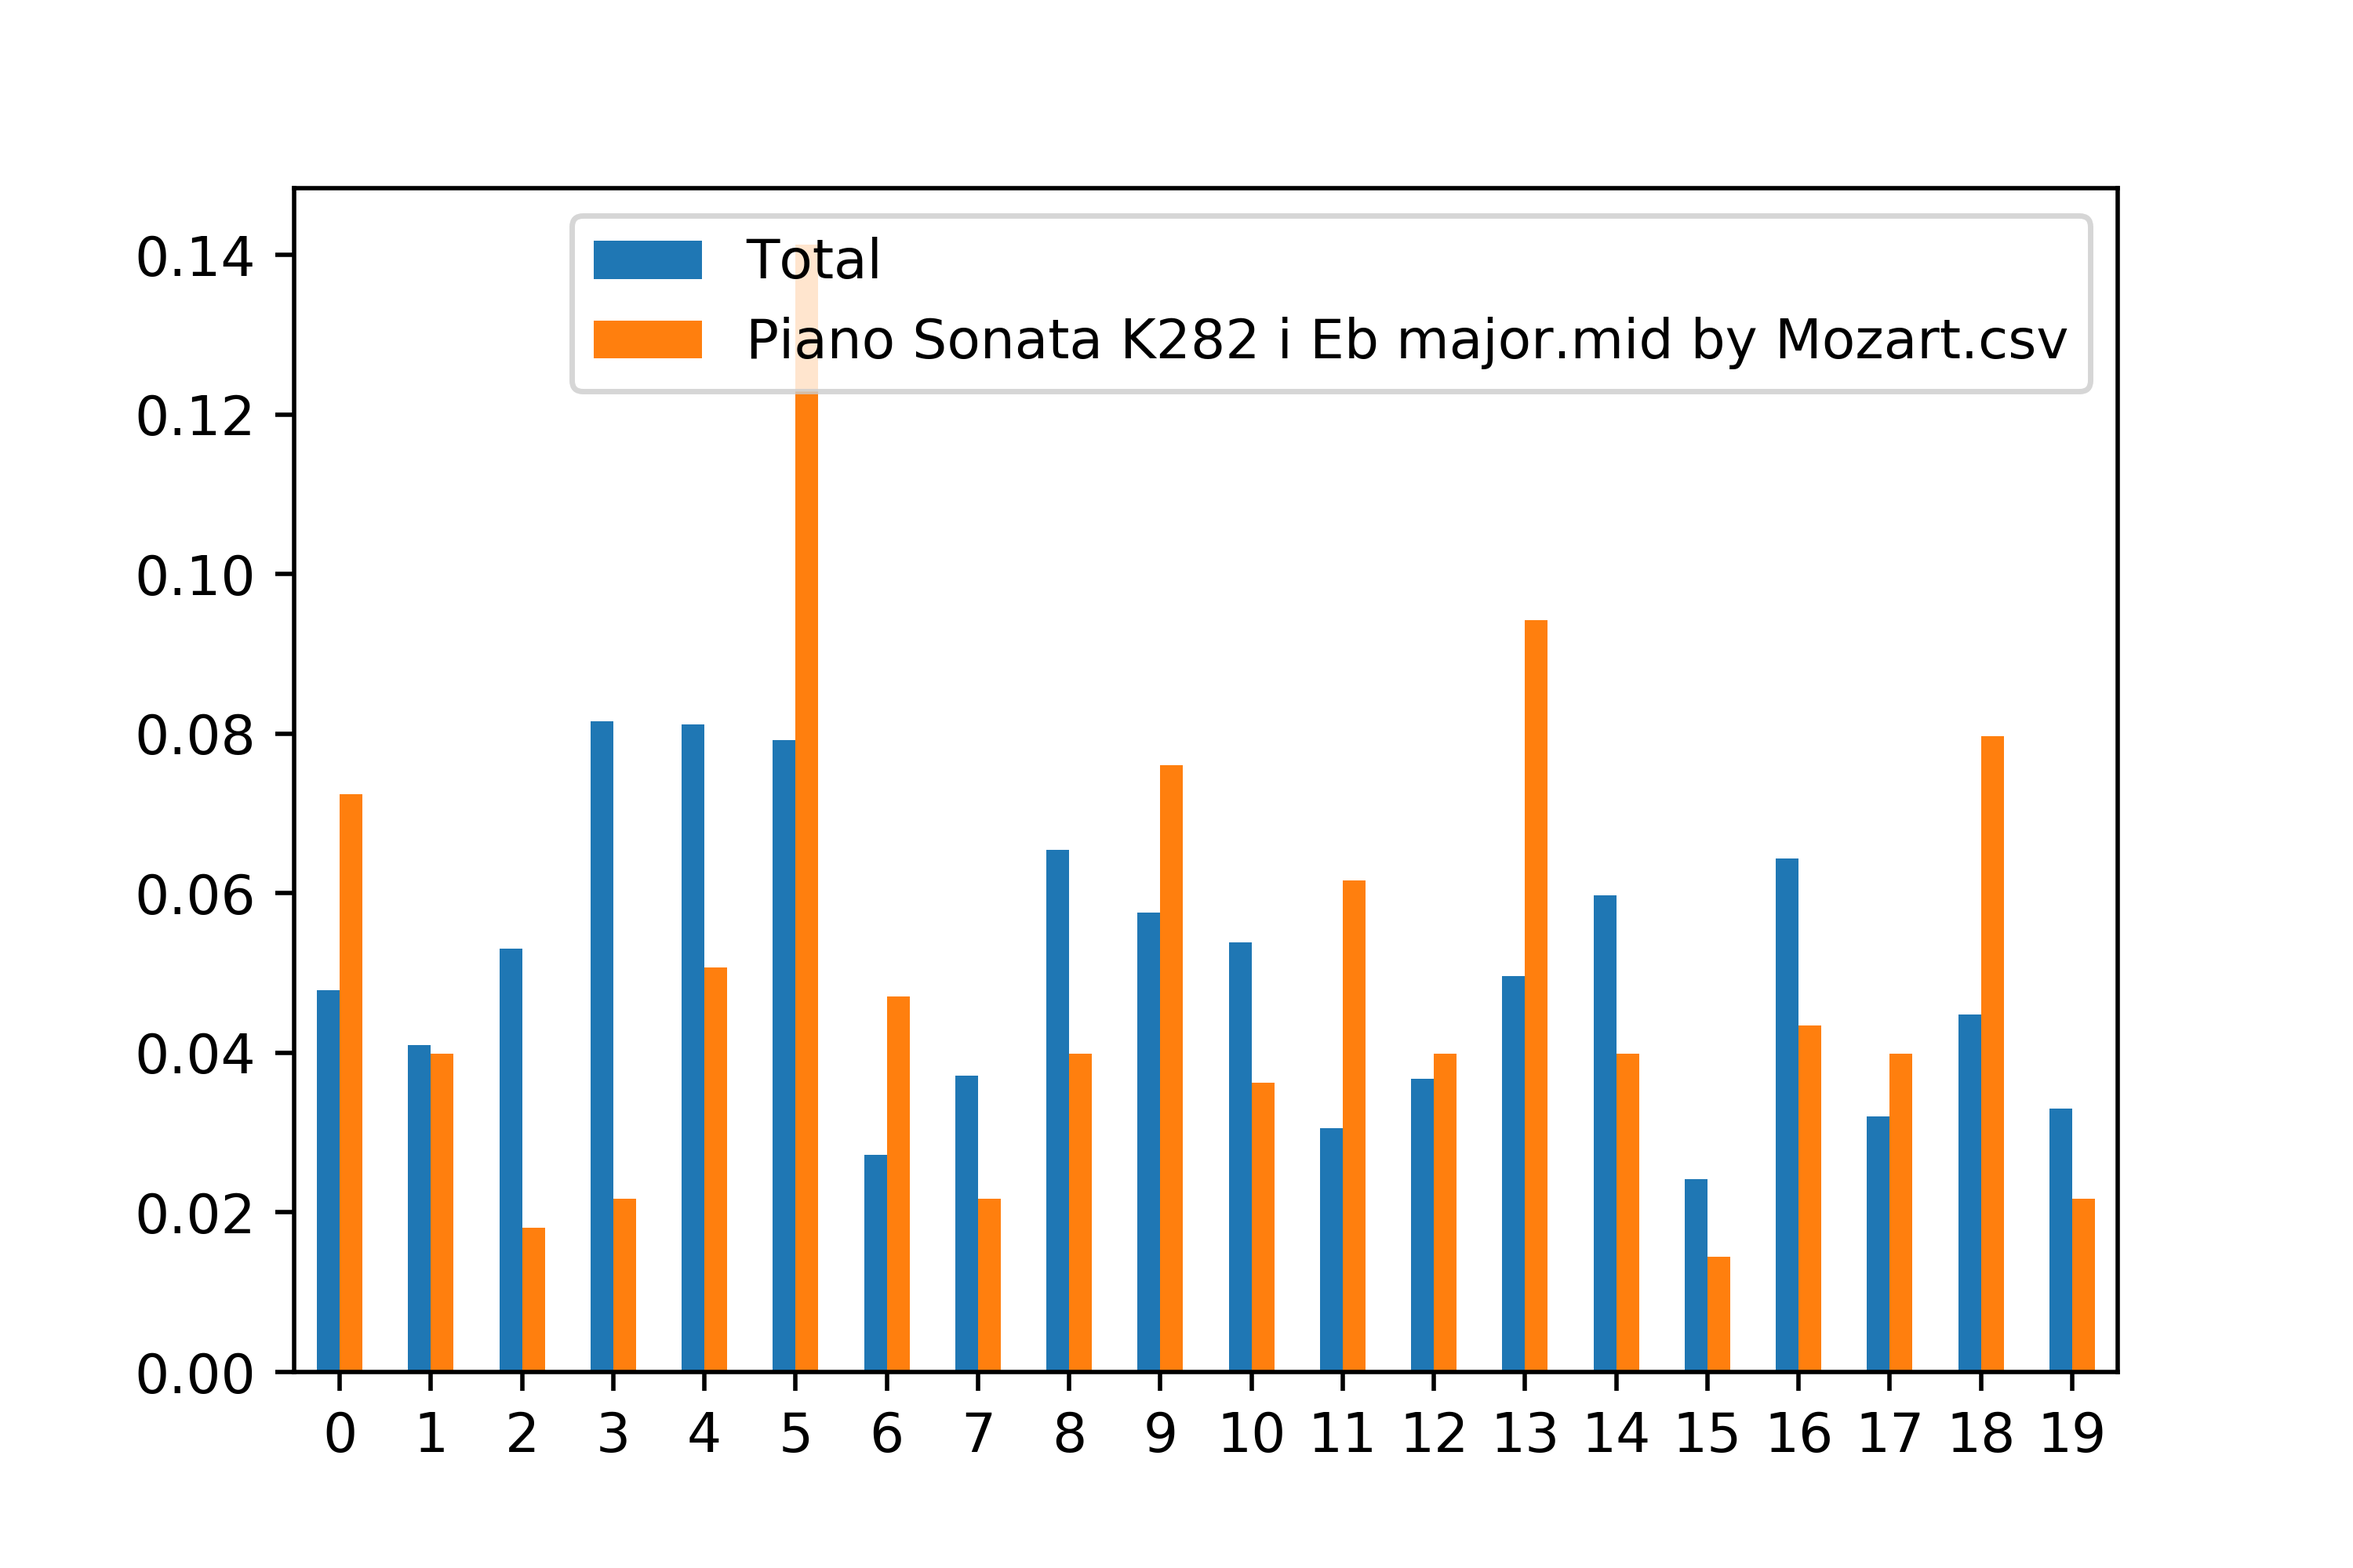
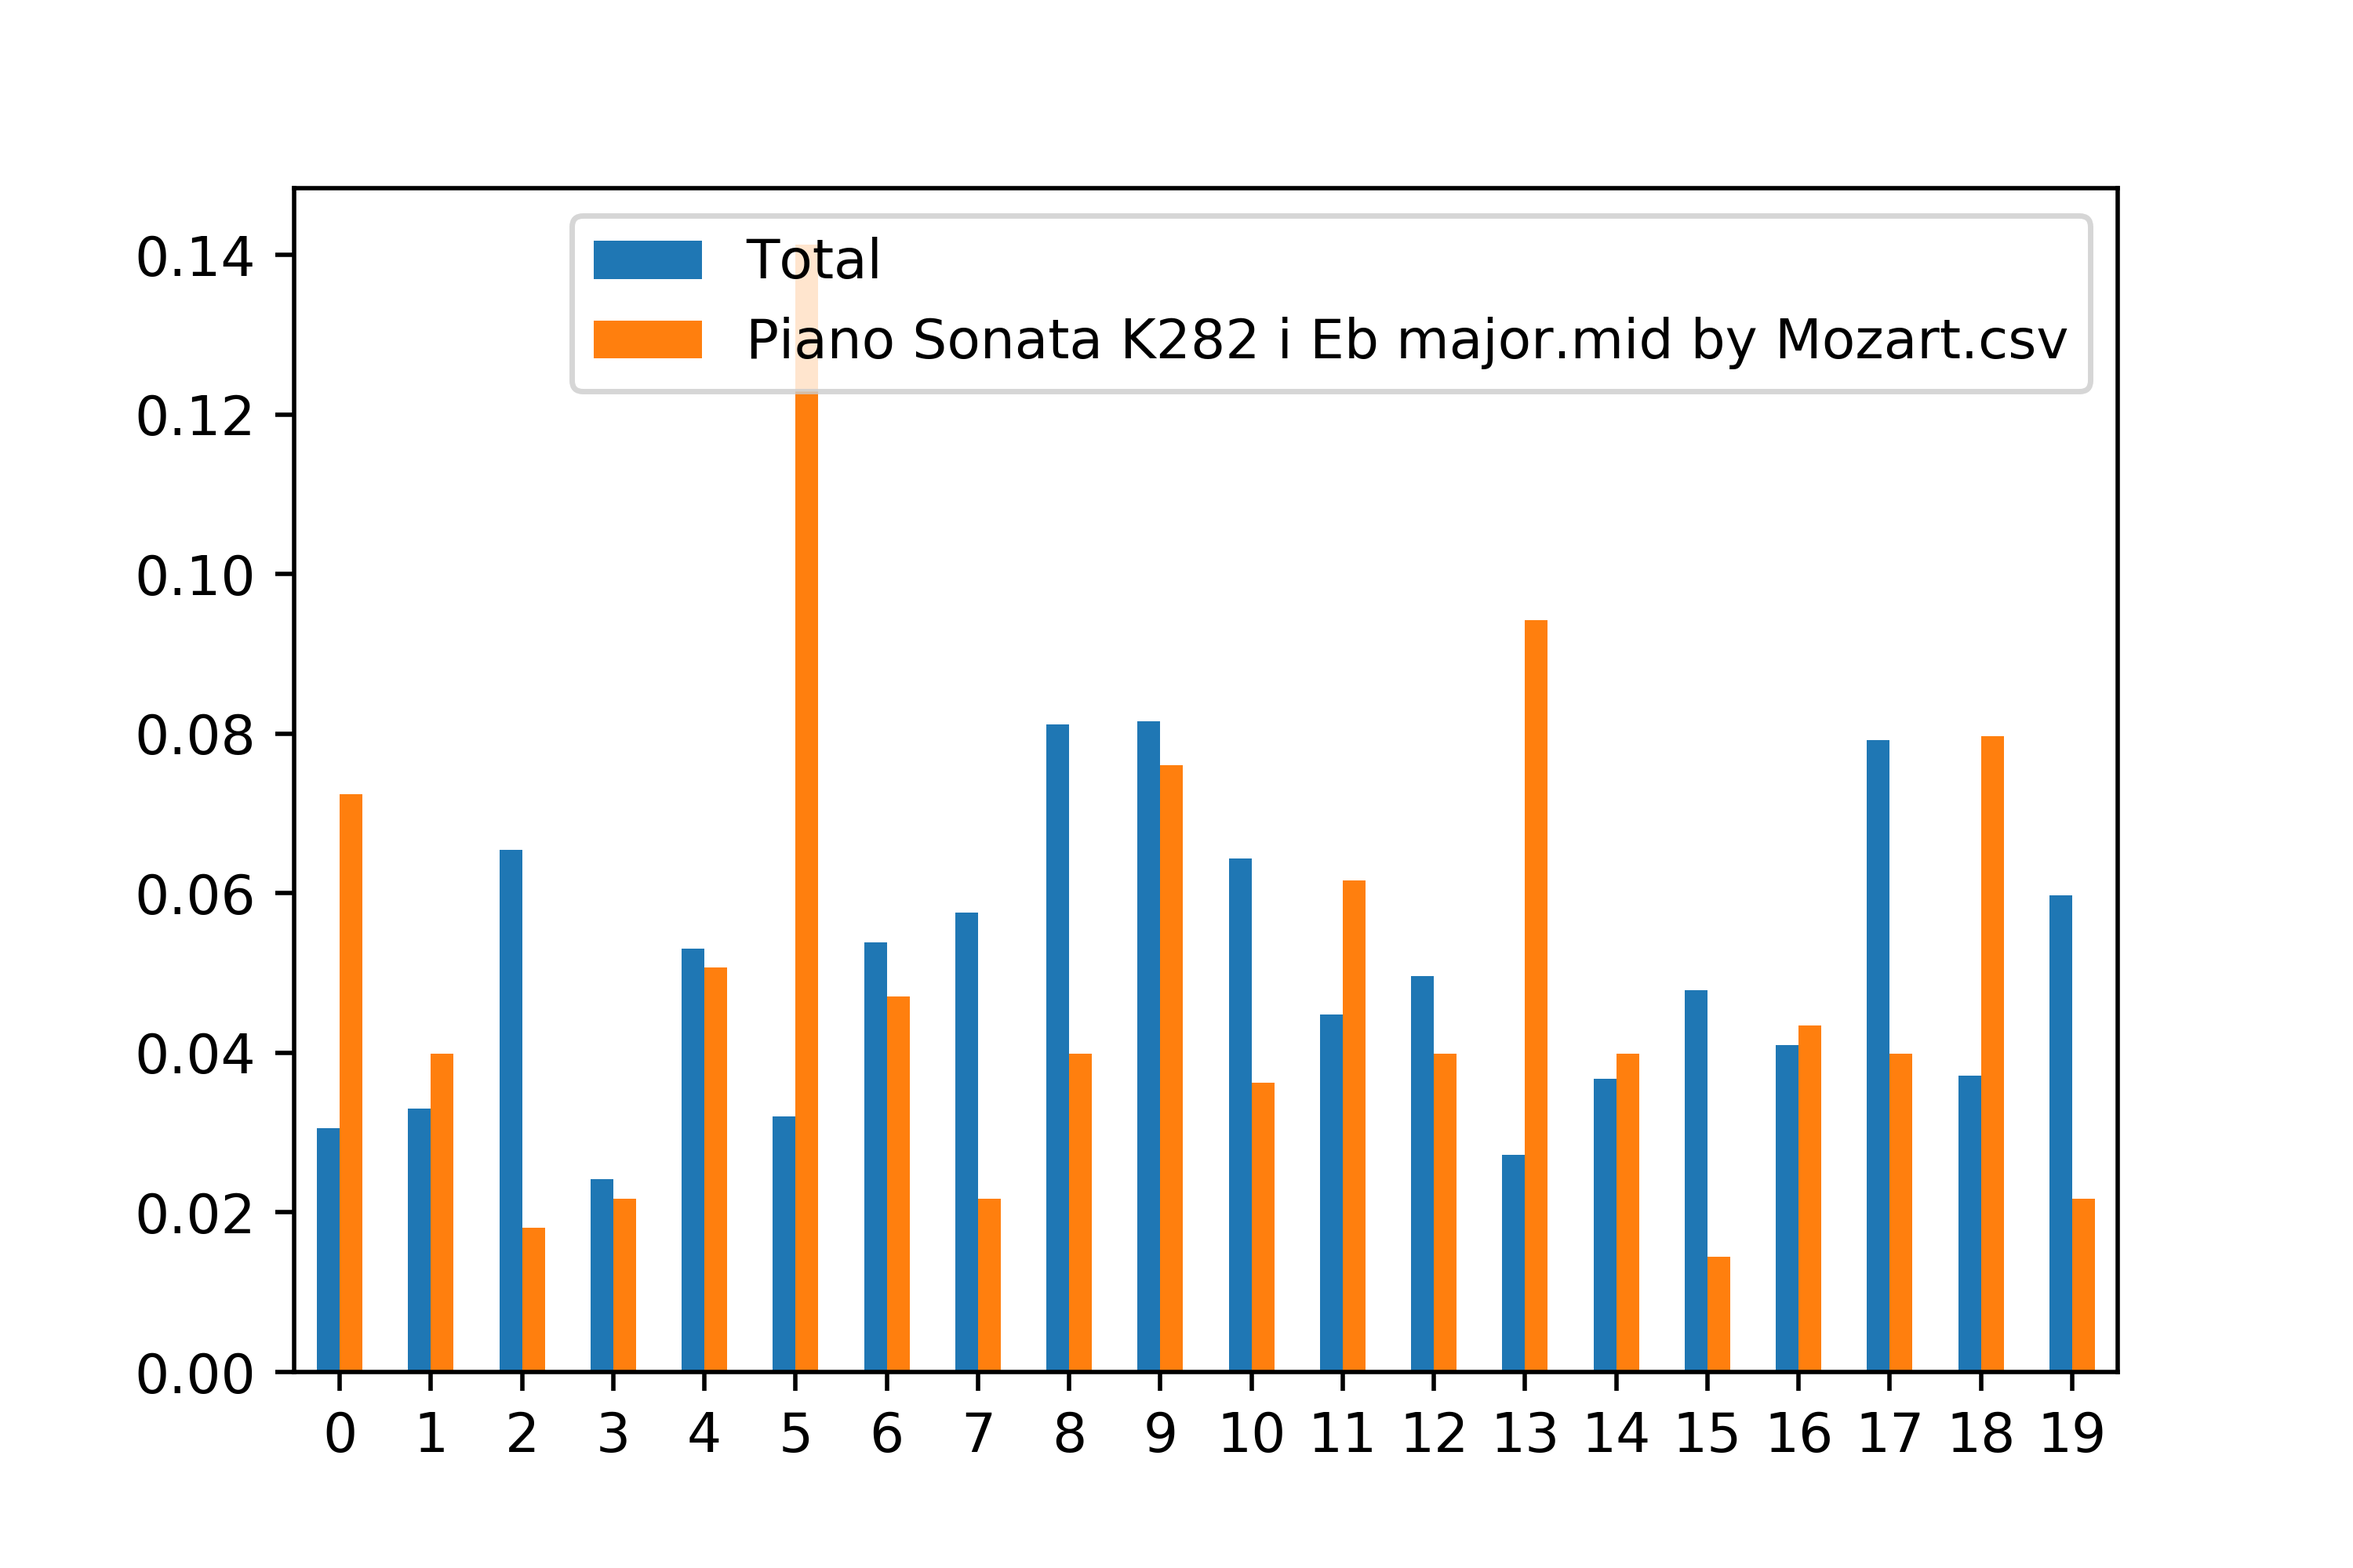
bug fixed: reordering bar chart_total

diff --git a/kMean.py b/kMean.py
@@ -456,15 +456,7 @@ def main():
 
 
     entireDF
-    
-    # entire bar chart
-    
-    countDF = entireDF.CentroidLabelIndex_entireUnits.value_counts(normalize=True)
-    countDF
-    countDF = countDF.sort_index(axis=0, level=None, ascending=True, inplace=False, sort_remaining=True)
-    #value as y axis. normalized
-    countDF.plot.bar(y=[0], alpha=0.5)
-    countDF
+
     
 #    
 #    #Stage split
@@ -709,12 +701,21 @@ def main():
        ######## ######## ######## ######## ######## ######## ######## ######## ######## ########
    
     
+        
+
     
     
     entireDF = entireDF.drop(['CentroidLabelIndex_individualUnit'],axis=1)
     entireDF.rename(columns={'CentroidLabelIndex_entireUnits':'oldCentroidIndex'}, inplace=True)
     
-
+    # entire bar chart
+    
+    countDF = entireDF.newCentroidIndex.value_counts(normalize=True)
+    countDF
+    countDF = countDF.sort_index(axis=0, level=None, ascending=True, inplace=False, sort_remaining=True)
+    #value as y axis. normalized
+    countDF.plot.bar(y=[0], alpha=0.5)
+    countDF
 
     entireDF
     
